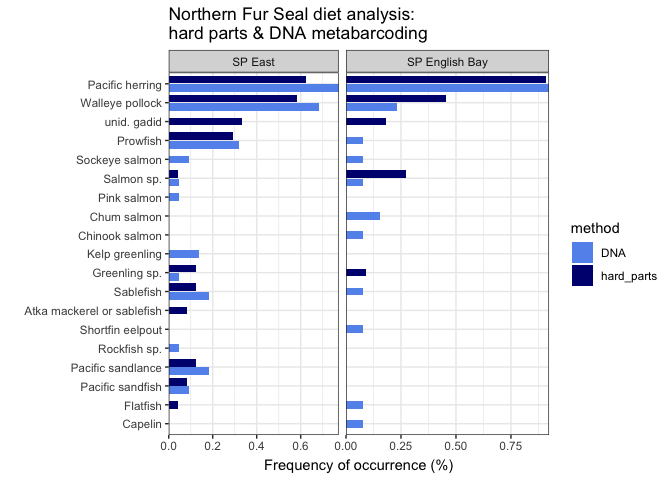
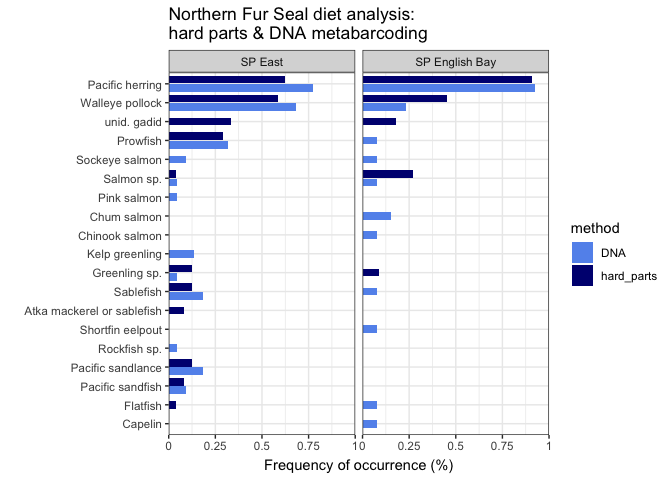
more updates for ESR.

diff --git a/Rmd/02-2025-diet-analysis.md b/Rmd/02-2025-diet-analysis.md
@@ -1154,6 +1154,31 @@ clean_df_readDepth_filtered <- clean_df_filtered %>%
     ## ...42, ...43, ...44, prop_taxon)`
 
 ``` r
+clean_df_filtered %>%
+  select(ablg, replicate, total_reads) %>%
+  unique() %>%
+  ggplot(aes(x = reorder(ablg, total_reads), y = total_reads)) +
+  geom_bar(stat = "identity") +
+  geom_hline(yintercept = 1000, color = "red") +
+  facet_grid(rows = vars(replicate), labeller = label_both) +
+  theme_bw() +
+  theme(
+    axis.text.x = element_text(angle = 90, size = 7)
+  ) +
+  labs(
+    x = "DNA sample (scat subsample)"
+  )
+```
+
+    ## Adding missing grouping variables: `sample`
+
+![](02-2025-diet-analysis_files/figure-gfm/remove-samples-with-fewer-than-1000-total-reads-1.png)<!-- -->
+
+``` r
+ggsave("pdf_outputs/2025_stPaul_readDepths.png", width = 8, height = 4)
+```
+
+``` r
 clean_df_readDepth_filtered %>%
   filter(taxon_reads > 10) %>%
  ggplot(aes(x = ablg, y = prop_taxon, fill = taxon)) +
@@ -1400,6 +1425,8 @@ fo_data <- filtered_df %>%
 But, if we wanted to take into account the relative proportion of the
 diet items, how might that change things?
 
+############################# 
+
 ## hard parts data
 
 To compare sample-to-sample
@@ -1562,7 +1589,7 @@ uniq_scat_sample_df %>%
   guides(fill = guide_legend(nrow = 4))
 ```
 
-![](02-2025-diet-analysis_files/figure-gfm/unnamed-chunk-13-1.png)<!-- -->
+![](02-2025-diet-analysis_files/figure-gfm/unnamed-chunk-12-1.png)<!-- -->
 
 ``` r
 ggsave("pdf_outputs/2025_stpaul_filtered_readProp_complex.png", width = 8, height = 5)
@@ -1641,6 +1668,33 @@ Of the samples that were collected for DNA analysis, 14 did not have the
 minimum data quality required for analysis, 13 of which were also
 excluded from hard parts results.
 
+For the hard parts “exclude” category, there are two samples that likely
+should have DNA because they were excluded because of unidentifiable
+bones. Try looking more closely at the individual scats…
+
+``` r
+hp_grps <- hp_w_dna %>%
+  select(scat_id, keep, firstgroupname) %>%
+  unique() %>%
+  mutate(analysis = "hard_parts") 
+
+uniq_scat_sample_df %>%
+  select(region, scat_id) %>%
+  unique() %>%
+  full_join(., hp_grps) %>%
+   # ignore fecal loop samples because those shouldn't be included ad-hoc
+  filter(!str_detect(scat_id, "ANY")) %>%
+  mutate(dna_analysis = ifelse(is.na(region), "exclude", "keep")) %>%
+  select(-region) %>%
+  rename(hp_analysis = keep) %>%
+  mutate(hp_notes = ifelse(hp_analysis == "Exclude", firstgroupname, NA)) %>%
+  select(-firstgroupname) %>%
+  unique() %>%
+  write_csv("csv_outputs/2025_stPaul_sampleTracking.csv")
+```
+
+    ## Joining with `by = join_by(scat_id)`
+
 Now try combining hard parts with metabarcoding data…
 
 ``` r
@@ -1660,7 +1714,8 @@ hp_fo_df <- hp_w_dna %>%
   left_join(., n_hp_scats_complex) %>%
   mutate(freq = n/n_scats_complex, type = "hard_parts") %>%
   rename(region = complex) %>%
-  mutate(region = ifelse(region == "East", "SP East", "SP English Bay"))
+  mutate(region = ifelse(region == "East", "SP East", "SP English Bay")) %>%
+  rename(n_scats_region = n_scats_complex)
 ```
 
     ## Joining with `by = join_by(complex)`
@@ -1704,7 +1759,7 @@ tmp2 %>%
     axis.text.y = element_text(vjust = 0.5),
     axis.title.x = element_text(margin = margin(t = 5))
   ) +
-  scale_x_continuous(expand = c(0,0)) +
+  scale_x_continuous(expand = c(0,0), limits = c(0,1), labels = c(0, 0.25, 0.5, 0.75, 1.0)) +
   scale_fill_manual(values = c("cornflowerblue","navyblue"))
 ```
 
@@ -1716,3 +1771,96 @@ ggsave("pdf_outputs/2025_stpaul_filtered_FO_comparison.png", width = 6.5, height
 
 Now the challenge is that Tonya wants families grouped together… which
 probably needs to be done manually.
+
+``` r
+tmp2 %>%
+  write_csv("csv_outputs/2025_stPaul_FO_both_methods.csv")
+```
+
+``` r
+uniq_scat_sample_df %>%
+  select(region, scat_id) %>%
+  unique() %>%
+  full_join(., hp_grps) %>%
+   # ignore fecal loop samples because those shouldn't be included ad-hoc
+  filter(!str_detect(scat_id, "ANY")) %>%
+  mutate(dna_analysis = ifelse(is.na(region), "exclude", "keep")) %>%
+  select(-region) %>%
+  rename(hp_analysis = keep) %>%
+  mutate(hp_notes = ifelse(hp_analysis == "Exclude", firstgroupname, NA)) %>%
+  select(-firstgroupname) %>%
+  unique() %>%
+  mutate(analyzed = ifelse(hp_analysis == "Keep" | dna_analysis == "keep", "yes", "no")) %>%
+  filter(analyzed == "yes") %>%
+  select(scat_id) %>%
+  unique() %>%
+  separate(scat_id, into = c("rookery", "sample"))
+```
+
+    ## Joining with `by = join_by(scat_id)`
+
+    ## Warning: Expected 2 pieces. Additional pieces discarded in 36 rows [1, 2, 3, 4, 5, 6, 7,
+    ## 8, 9, 10, 11, 12, 13, 14, 15, 16, 17, 18, 19, 20, ...].
+
+    ## # A tibble: 36 × 2
+    ##    rookery sample
+    ##    <chr>   <chr> 
+    ##  1 Zapadni Reef  
+    ##  2 Zapadni Reef  
+    ##  3 Zapadni Reef  
+    ##  4 Zapadni Reef  
+    ##  5 Zapadni Reef  
+    ##  6 Zapadni Reef  
+    ##  7 Zapadni Reef  
+    ##  8 Zapadni Reef  
+    ##  9 Zapadni Reef  
+    ## 10 Zapadni Reef  
+    ## # ℹ 26 more rows
+
+Katie made some edits to help sort through any confusion with the number
+of samples and has included them here:
+
+``` r
+checks <- read_csv("../data/hard_parts/2025_stPaul_sampleTracking_rev.csv")
+```
+
+    ## Rows: 49 Columns: 6
+    ## ── Column specification ────────────────────────────────────────────────────────
+    ## Delimiter: ","
+    ## chr (6): scat_id, dna_analysis, hp_analysis, hp_notes, method, analysis
+    ## 
+    ## ℹ Use `spec()` to retrieve the full column specification for this data.
+    ## ℹ Specify the column types or set `show_col_types = FALSE` to quiet this message.
+
+``` r
+checks %>%
+  group_by(method) %>%
+  tally()
+```
+
+    ## # A tibble: 4 × 2
+    ##   method      n
+    ##   <chr>   <int>
+    ## 1 both       33
+    ## 2 dna         2
+    ## 3 hp          1
+    ## 4 neither    13
+
+``` r
+checks %>%
+  mutate(complex = ifelse(str_detect(scat_id, "Zapadni"), "English Bay", "East")) %>%
+  group_by(complex, method) %>%
+  tally()
+```
+
+    ## # A tibble: 7 × 3
+    ## # Groups:   complex [2]
+    ##   complex     method      n
+    ##   <chr>       <chr>   <int>
+    ## 1 East        both       21
+    ## 2 East        dna         1
+    ## 3 East        hp          1
+    ## 4 East        neither    10
+    ## 5 English Bay both       12
+    ## 6 English Bay dna         1
+    ## 7 English Bay neither     3
